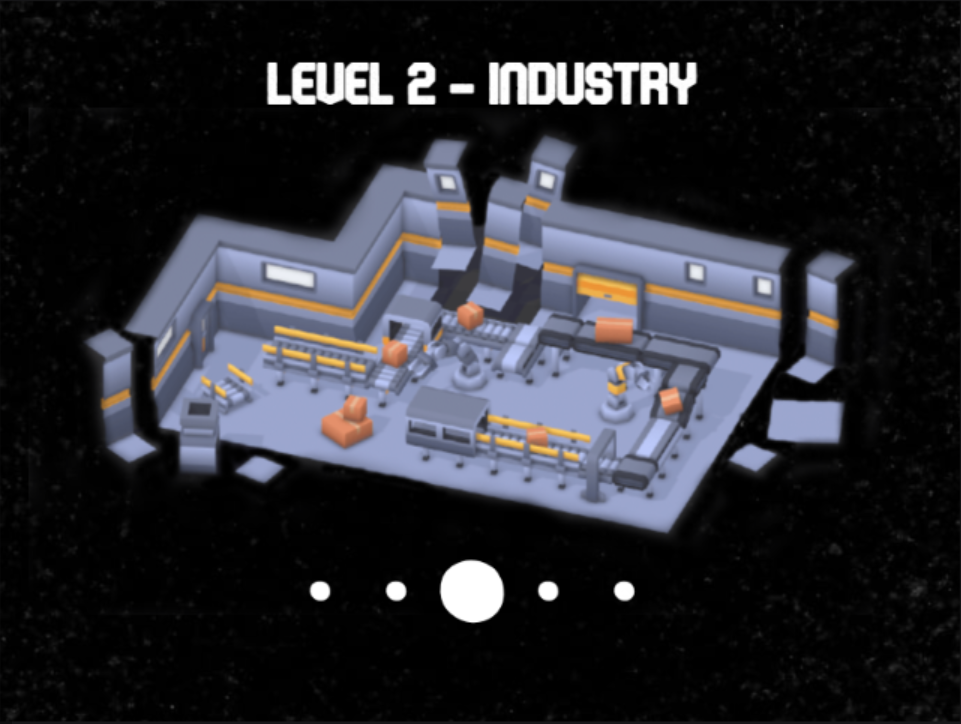
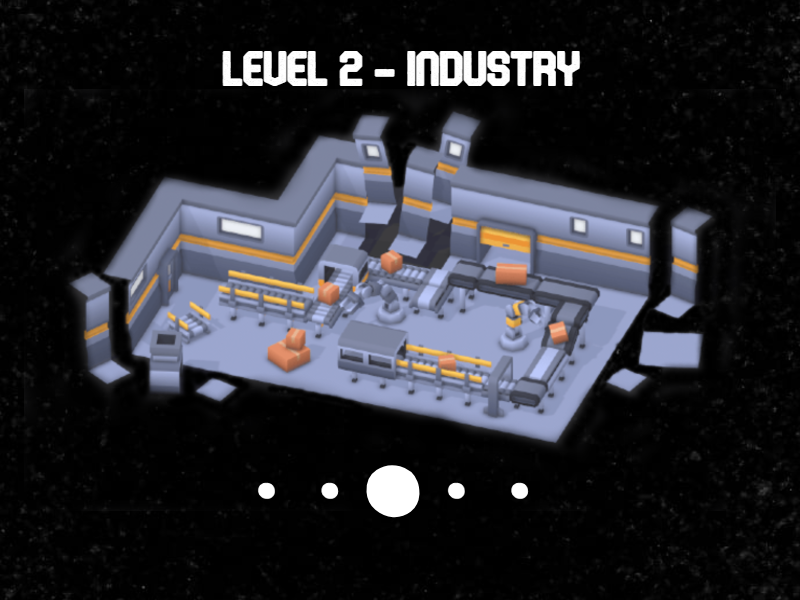
level2, 3 & coming soon

diff --git a/src/game/stage.cpp b/src/game/stage.cpp
@@ -122,12 +122,14 @@ void MenuStage::render(Camera* camera) {
     if (level == 3 && !L2_completed)
         UI::addbackground(Vector2(Game::instance->window_width * 0.5, Game::instance->window_height * 0.5), Vector2(100, 100), "data/button/LOCKED.png");
 
-    if (UI::addbutton(Vector2(Game::instance->window_width * 0.5, Game::instance->window_height * 0.93), Vector2(192, 64), "data/button/PLAY.png")) {
-        if (!showHowToPlay && !settingsOpen) {
-            if (level == 1) Game::instance->goToStage(STAGE_L1);
-            if (level == 2 && L1_completed) Game::instance->goToStage(STAGE_L2);
-            if (level == 3 && L2_completed) Game::instance->goToStage(STAGE_L3);
-            if (level == 0) Game::instance->goToStage(STAGE_TUTORIAL);
+    if (level != 4) {
+        if (UI::addbutton(Vector2(Game::instance->window_width * 0.5, Game::instance->window_height * 0.93), Vector2(192, 64), "data/button/PLAY.png")) {
+            if (!showHowToPlay && !settingsOpen) {
+                if (level == 1) Game::instance->goToStage(STAGE_L1);
+                if (level == 2 && L1_completed) Game::instance->goToStage(STAGE_L2);
+                if (level == 3 && L2_completed) Game::instance->goToStage(STAGE_L3);
+                if (level == 0) Game::instance->goToStage(STAGE_TUTORIAL);
+            }
         }
     }
 
